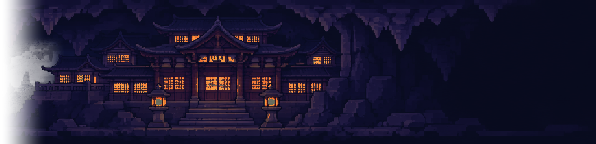
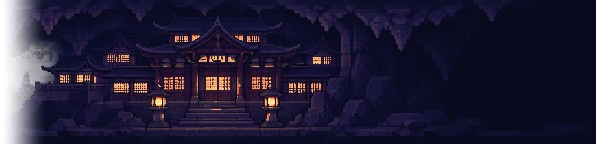
Add flame flickering

diff --git a/test/html-layout.test.ts b/test/html-layout.test.ts
@@ -207,6 +207,36 @@ test("header rendering has no indoor or outdoor setting in the demo or game", as
   assert.match(sleep, /^CALL HOTPATCH_SKY$/m);
 });
 
+test("only the Underworld left lantern has a localized randomly timed flicker", async () => {
+  const source = await readFile(new URL("../web/sky.js", import.meta.url), "utf8");
+  const css = await readFile(new URL("../web/style.css", import.meta.url), "utf8");
+  assert.match(source, /if \(area === "9"\) \{[\s\S]*?lantern\.className = "era-cave-lantern";/);
+  assert.match(source, /--lantern-flicker-duration", `\$\{flicker\.duration\}s`/);
+  assert.match(source, /--lantern-flicker-pattern", flicker\.easing/);
+  assert.match(source, /--lantern-flicker-delay", `\$\{-Math\.random\(\) \* flicker\.duration\}s`/);
+  assert.match(css, /\.era-cave-lantern \{[^}]*left: 132px; bottom: 55px; width: 40px; height: 42px;[^}]*pointer-events: none;[^}]*z-index: 1;[^}]*mask: url\(\/underworld-lantern-mask\.png\)/);
+  assert.match(css, /var\(--lantern-flicker-pattern, steps\(1\)\) infinite;/);
+  const routine = source.slice(source.indexOf("export function lanternFlicker"), source.indexOf("/** Apply panorama"));
+  const generate = new Function(`${routine.replace("export ", "")}; return lanternFlicker;`)();
+  const patterns = [];
+  for (const value of [0, .5, .999]) {
+    const pattern = generate(() => value);
+    assert.ok(pattern.duration >= 175 && pattern.duration <= 515);
+    const stops = [...pattern.easing.matchAll(/([\d.]+) ([\d.]+)%/g)].map(match => [Number(match[1]), Number(match[2])]);
+    assert.ok(Math.abs(stops[1]![1]! / 100 * pattern.duration - (10 + value * 20)) < 1e-8, "bursts wait 10–30 seconds without slowing the flashes");
+    const dips = stops.filter(([opacity]) => opacity! >= .4);
+    assert.equal(dips.length, 32 * (1 + Math.floor(value * 3)), "one to three dips per burst");
+    assert.ok(dips.every(([opacity]) => opacity! >= .4 && opacity! <= .6), "dips leave around half the flame brightness");
+    for (let i = 1; i < stops.length; i++) assert.ok(stops[i]![1]! >= stops[i - 1]![1]!);
+    assert.deepEqual(stops[0], [0, 0]);
+    assert.deepEqual(stops.at(-1), [0, 100]);
+    patterns.push(pattern.easing);
+  }
+  assert.equal(new Set(patterns).size, 3, "brightness and flash counts vary with randomness");
+  assert.match(css, /@keyframes era-lantern-flicker/);
+  assert.match(css, /prefers-reduced-motion: reduce\) \{\s*\.era-cave-lantern \{ animation: none; opacity: 0; \}/);
+});
+
 test("Underworld bats are confined to the cavern artwork and respect reduced motion", async () => {
   const source = await readFile(new URL("../web/sky.js", import.meta.url), "utf8");
   const css = await readFile(new URL("../web/style.css", import.meta.url), "utf8");
@@ -460,7 +490,13 @@ test("night cloud, fog and snow palettes are muted and a blurred orb glows above
 test("night panorama lights get a warm halo without blurring the scenery", async () => {
   const css = await readFile(new URL("../web/style.css", import.meta.url), "utf8");
   assert.match(css, /\.era-area-art-night \.era-sky-landmark::before \{[^}]*pointer-events: none; opacity: \.7;[^}]*--area-left[^}]*--area-right[^}]*--area-middle/);
-  assert.match(css, /filter: url\(#era-light-glow\)/);
+  assert.match(css, /filter: url\(#era-light-glow\); mix-blend-mode: screen;/);
+  for (const base of [0, .25, .65, .9, 1]) {
+    for (const glow of [1, .65, .25]) for (const alpha of [0, .1, .7, 1]) {
+      const screened = base + alpha * glow * (1 - base);
+      assert.ok(screened >= base, "the glow cannot darken any lamp channel");
+    }
+  }
   for (const file of ["index.html", "art-demo.html"]) {
     const html = await readFile(new URL(`../web/${file}`, import.meta.url), "utf8");
     assert.match(html, /<filter id="era-light-glow"[^>]*color-interpolation-filters="sRGB"/);

diff --git a/web/sky.js b/web/sky.js
@@ -35,6 +35,37 @@ export function sky(node, element) {
   return element;
 }
 
+/** A long stepped sequence keeps flame bursts irregular without timers tied to removed headers. */
+export function lanternFlicker(random = Math.random) {
+  const stops = ["0 0%"];
+  let elapsed = 0, opacity = 0;
+  const changes = [];
+  const change = (next, seconds) => {
+    elapsed += seconds;
+    changes.push([elapsed, opacity, next]);
+    opacity = next;
+  };
+  for (let burst = 0; burst < 16; burst++) {
+    const flashes = 1 + Math.floor(random() * 3);
+    change(.4 + random() * .2, 10 + random() * 20);
+    for (let flash = 1; flash < flashes; flash++) {
+      change(0, .08 + random() * .1);
+      change(.4 + random() * .2, .08 + random() * .12);
+    }
+    change(.25 + random() * .1, .08 + random() * .1);
+    change(.15 + random() * .1, .08 + random() * .1);
+    change(.05 + random() * .05, .08 + random() * .1);
+    change(0, .08 + random() * .1);
+  }
+  elapsed += 10;
+  for (const [time, before, after] of changes) {
+    const percent = time / elapsed * 100;
+    stops.push(`${before} ${percent}%`, `${after} ${percent}%`);
+  }
+  stops.push("0 100%");
+  return { duration: elapsed, easing: `linear(${stops.join(", ")})` };
+}
+
 /** Apply panorama images while leaving weather, sky and SVG fallbacks to the shared stylesheet. */
 export function prepareSkyArt(outputRoot, manifest, loadImage, pendingImages, artwork = "auto") {
   const skies = [...outputRoot.querySelectorAll(".era-sky[class*='era-area-']:not([data-area-art])")];
@@ -61,6 +92,14 @@ export function prepareSkyArt(outputRoot, manifest, loadImage, pendingImages, ar
       bats.setAttribute("aria-hidden", "true");
       for (let i = 0; i < 4; i++) bats.append(document.createElement("span"));
       sky.querySelector(".era-sky-landmark")?.append(bats);
+      const lantern = document.createElement("span");
+      lantern.className = "era-cave-lantern";
+      lantern.setAttribute("aria-hidden", "true");
+      const flicker = lanternFlicker();
+      lantern.style.setProperty("--lantern-flicker-duration", `${flicker.duration}s`);
+      lantern.style.setProperty("--lantern-flicker-pattern", flicker.easing);
+      lantern.style.setProperty("--lantern-flicker-delay", `${-Math.random() * flicker.duration}s`);
+      sky.querySelector(".era-sky-landmark")?.append(lantern);
     }
     const header = sky.closest(".era-main-header") ?? sky;
     for (const part of ["left", "middle", "right"]) {

diff --git a/web/style.css b/web/style.css
@@ -513,6 +513,15 @@ body:has(.menu-panel:not([hidden])) .clock-overhang { visibility: hidden; }
 .era-area-art.era-area-7 { --area-art-overlap: 360px; }
 .era-area-art.era-area-8 { --area-art-overlap: 176px; }
 .era-area-art.era-area-9 { --area-art-overlap: 48px; }
+.era-cave-lantern { position: absolute; left: 132px; bottom: 55px; width: 40px; height: 42px;
+  pointer-events: none; opacity: 0; z-index: 1;
+  background: #090a1d; mask: url(/underworld-lantern-mask.png) center / contain no-repeat;
+  animation: era-lantern-flicker var(--lantern-flicker-duration, 9s) var(--lantern-flicker-delay, 0s) var(--lantern-flicker-pattern, steps(1)) infinite; }
+@keyframes era-lantern-flicker {
+  from { opacity: 0; }
+  to { opacity: 1; } }
+@media (prefers-reduced-motion: reduce) {
+  .era-cave-lantern { animation: none; opacity: 0; } }
 .era-cave-bats { position: absolute; inset: 0; pointer-events: none; overflow: hidden; }
 .era-cave-bats > span { position: absolute; left: 26%; top: 48%; width: 14px; height: 10px;
   animation: era-bat-flight 8s ease-in-out infinite alternate; }
@@ -570,7 +579,7 @@ body:has(.menu-panel:not([hidden])) .clock-overhang { visibility: hidden; }
 /* Isolate bright warm pixels so windows glow without blurring the buildings or moonlit snow. */
 .era-area-art-night .era-sky-landmark::before { content: ""; position: absolute; inset: 0; pointer-events: none; opacity: .7;
   background: var(--area-left, none) left bottom / auto no-repeat, var(--area-right, none) right bottom / auto no-repeat, var(--area-middle) left bottom / auto repeat-x;
-  filter: url(#era-light-glow); }
+  filter: url(#era-light-glow); mix-blend-mode: screen; }
 .era-sky.era-area-art .era-sky-land::before,
 .era-sky.era-area-art .era-sky-landmark::after,
 .era-sky.era-area-art .era-sky-landmark::before {

diff --git a/test/area-art.test.ts b/test/area-art.test.ts
@@ -83,6 +83,28 @@ test(`${area} panoramas have aligned transparent day/night artwork and appropria
   }
 });
 
+test("Underworld lamps retain full daytime brightness and warm colours at night", async () => {
+  for (const part of ["left", "right"]) {
+    const root = new URL("../web/areas/9-underworld/", import.meta.url);
+    const day = decodePng(await readFile(new URL(`neutral-day-${part}.png`, root)));
+    const night = decodePng(await readFile(new URL(`neutral-night-${part}.png`, root)));
+    let cores = 0;
+    for (let y = 0; y < day.height; y++) for (let x = 0; x < day.width; x++) {
+      const lamp = part === "left" ? x >= 130 && x <= 165 && y >= 45 && y <= 86
+        : x >= 50 && x <= 420 && y >= 15 && y <= 130;
+      if (!lamp) continue;
+      const i = (y * day.width + x) * 4;
+      const r = day.data[i]!, g = day.data[i + 1]!, b = day.data[i + 2]!;
+      if (r <= 135 || r < g * .98 || g <= b * 1.25) continue;
+      cores++;
+      assert.deepEqual([...night.data.slice(i, i + 3)], [r, g, b], "emissive light is not dimmed or recoloured at night");
+      assert.ok(night.data[i]! >= night.data[i + 1]! * .98 && night.data[i + 1]! > night.data[i + 2]!, "lamp stays gold, not green");
+      assert.equal(night.data[i + 3], day.data[i + 3], "lamp geometry is unchanged");
+    }
+    assert.ok(cores > 50);
+  }
+});
+
 test("Underworld depth is translucent while foreground stays opaque and joins stay aligned", async () => {
   for (const phase of ["day", "night"]) for (const part of ["left", "middle", "right"]) {
     const art = decodePng(await readFile(new URL(`../web/areas/9-underworld/neutral-${phase}-${part}.png`, import.meta.url)));

diff --git a/test/server.test.ts b/test/server.test.ts
@@ -378,8 +378,15 @@ test("HTTP UI, isolated sessions, real image bytes, sprite metadata, errors and 
     assert.equal(artDemo.status, 200);
     assert.match(artDemo.headers.get("content-type")!, /text\/html/);
     const demoHtml = await artDemo.text();
-    for (const id of ["location", "season", "day", "time", "weather", "artwork", "setting", "minutes"])
+    for (const id of ["location", "season", "day", "time", "weather", "artwork", "minutes"])
       assert.ok(demoHtml.includes(`id="${id}"`), `artwork demo has ${id} control`);
+    assert.ok(!demoHtml.includes('id="setting"'));
+    const lanternMask = await fetch(base + "/underworld-lantern-mask.png");
+    assert.equal(lanternMask.status, 200);
+    assert.equal(lanternMask.headers.get("content-type"), "image/png");
+    const maskBytes = Buffer.from(await lanternMask.arrayBuffer());
+    assert.equal(maskBytes.readUInt32BE(16), 40);
+    assert.equal(maskBytes.readUInt32BE(20), 42);
     for (const [file, type] of [["art-demo.js", "javascript"], ["sky.js", "javascript"], ["art-demo.css", "text/css"]]) {
       const resource = await fetch(base + "/" + file);
       assert.equal(resource.status, 200);

diff --git a/src/server.ts b/src/server.ts
@@ -611,6 +611,7 @@ export function createApp(games: Game | readonly GameEntry[], development = fals
         "/title/new-game.webp": "title/new-game.webp", "/title/load-game.webp": "title/load-game.webp",
         "/moon.svg": "moon.svg",
         "/earth.png": "earth.png",
+        "/underworld-lantern-mask.png": "underworld-lantern-mask.png",
         "/clock-frame.png": "clock-frame.png",
         "/clock-frame-hover.png": "clock-frame-hover.png",
         "/fonts/BIZUDGothic-Regular.ttf": "fonts/BIZUDGothic-Regular.ttf",

diff --git a/docs/hotpatches.md b/docs/hotpatches.md
@@ -662,8 +662,19 @@ alpha. Day/night versions use identical transparency and the same dark colour in
 Subtler transparency also reveals depth inside the left side of the open doorway, without changing
 the arch. Shadows around the palace and in the far-right cavern retain their original opaque artwork.
 End panels fade over their inner 48px to soften joins.
-The aligned cooler night grade retains warm lanterns and
-windows. The Underworld location suppresses the sun, moon, clouds and precipitation.
+The aligned cooler night grade retains warm lanterns and windows, including pale yellow lamp
+cores as well as orange light, at their full daytime colour and brightness. The cool cave tint
+does not dim or turn them green; darker surroundings and the night halo make them stand out more.
+The shared warm night halo uses screen blending, adding light rather than painting orange over
+bright cores and reducing their brightness.
+Only the left Underworld lantern flickers during both day and night. A pixel-aligned mask isolates
+its flame above the steady night halo without affecting the metal frame or palace lights.
+Each burst holds full brightness, then flashes one to three times with randomized dips to
+40–60% brightness, followed by stepped recovery to full brightness without smooth pulsing.
+A generated sequence of 16 randomized bursts varies pauses (10–30 seconds), flash durations,
+brightness and recovery levels before repeating, with a randomized starting phase.
+Reduced motion disables the flicker.
+The Underworld location suppresses the sun, moon, clouds and precipitation.
 It uses a flat pale lavender-blue (#b3c5ff) midday backdrop,
 fading to #090a1d at sunrise/sunset and throughout night with a squared solar-elevation curve.
 The matching dark tunnel pixels disappear into that background at night, while varying
